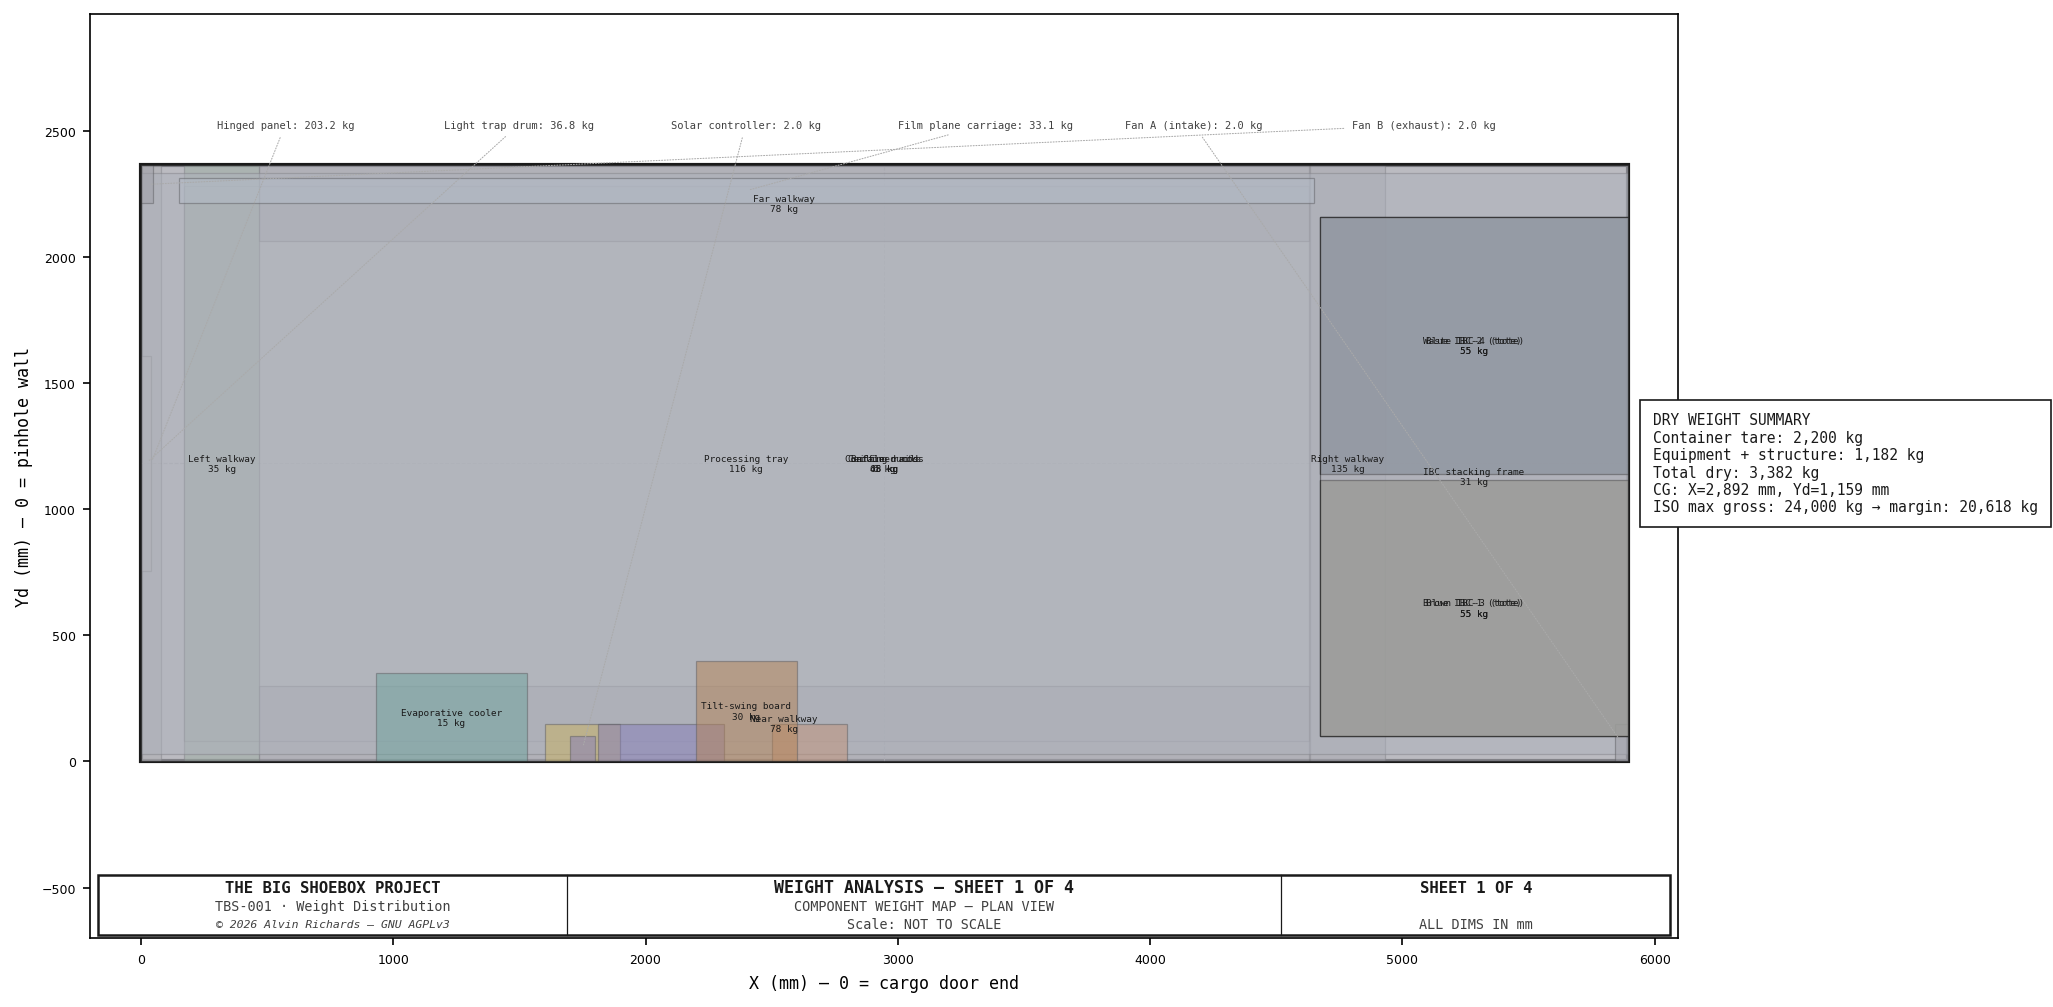
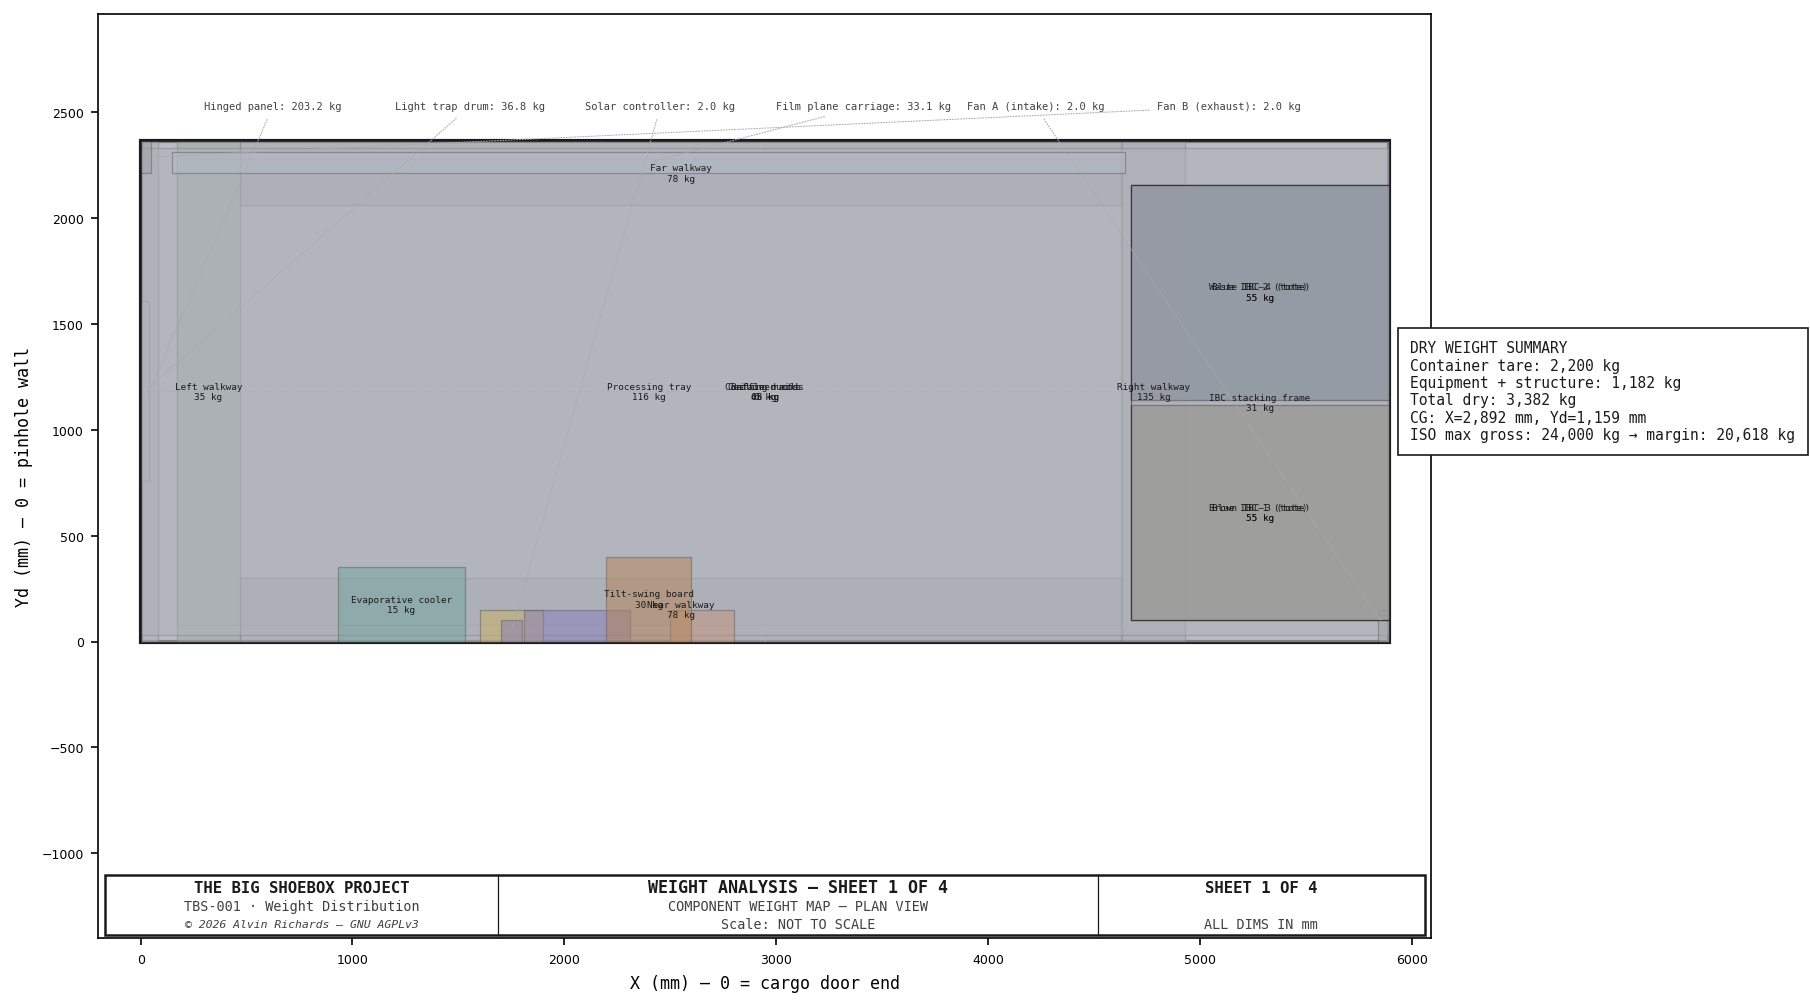
Weight analysis sheets 1-3: move diagram up so title block clears frame

diff --git a/generate_weight_analysis.py b/generate_weight_analysis.py
@@ -611,7 +611,7 @@ def sheet1(components):
 
     # Axes setup
     ax.set_xlim(-200, C_LEN + 200)
-    ax.set_ylim(-700, C_WID + 600)
+    ax.set_ylim(-1400, C_WID + 600)
     ax.set_aspect("equal")
     ax.set_xlabel("X (mm) — 0 = cargo door end", fontsize=8, **_FONT)
     ax.set_ylabel("Yd (mm) — 0 = pinhole wall", fontsize=8, **_FONT)
@@ -700,7 +700,7 @@ def sheet2(components):
     _draw_state_diagram(ax, components, "ready", "CAMERA READY")
 
     ax.set_xlim(-400, C_LEN + 500)
-    ax.set_ylim(-700, C_WID + 200)
+    ax.set_ylim(-1400, C_WID + 200)
     ax.set_aspect("equal")
     ax.set_xlabel("X (mm)", fontsize=8, **_FONT)
     ax.set_ylabel("Yd (mm)", fontsize=8, **_FONT)
@@ -738,7 +738,7 @@ def sheet3(components):
             bbox=dict(fc="#FFF8F0", ec="orange", lw=1, pad=6))
 
     ax.set_xlim(-400, C_LEN + 500)
-    ax.set_ylim(-700, C_WID + 200)
+    ax.set_ylim(-1400, C_WID + 200)
     ax.set_aspect("equal")
     ax.set_xlabel("X (mm)", fontsize=8, **_FONT)
     ax.set_ylabel("Yd (mm)", fontsize=8, **_FONT)
